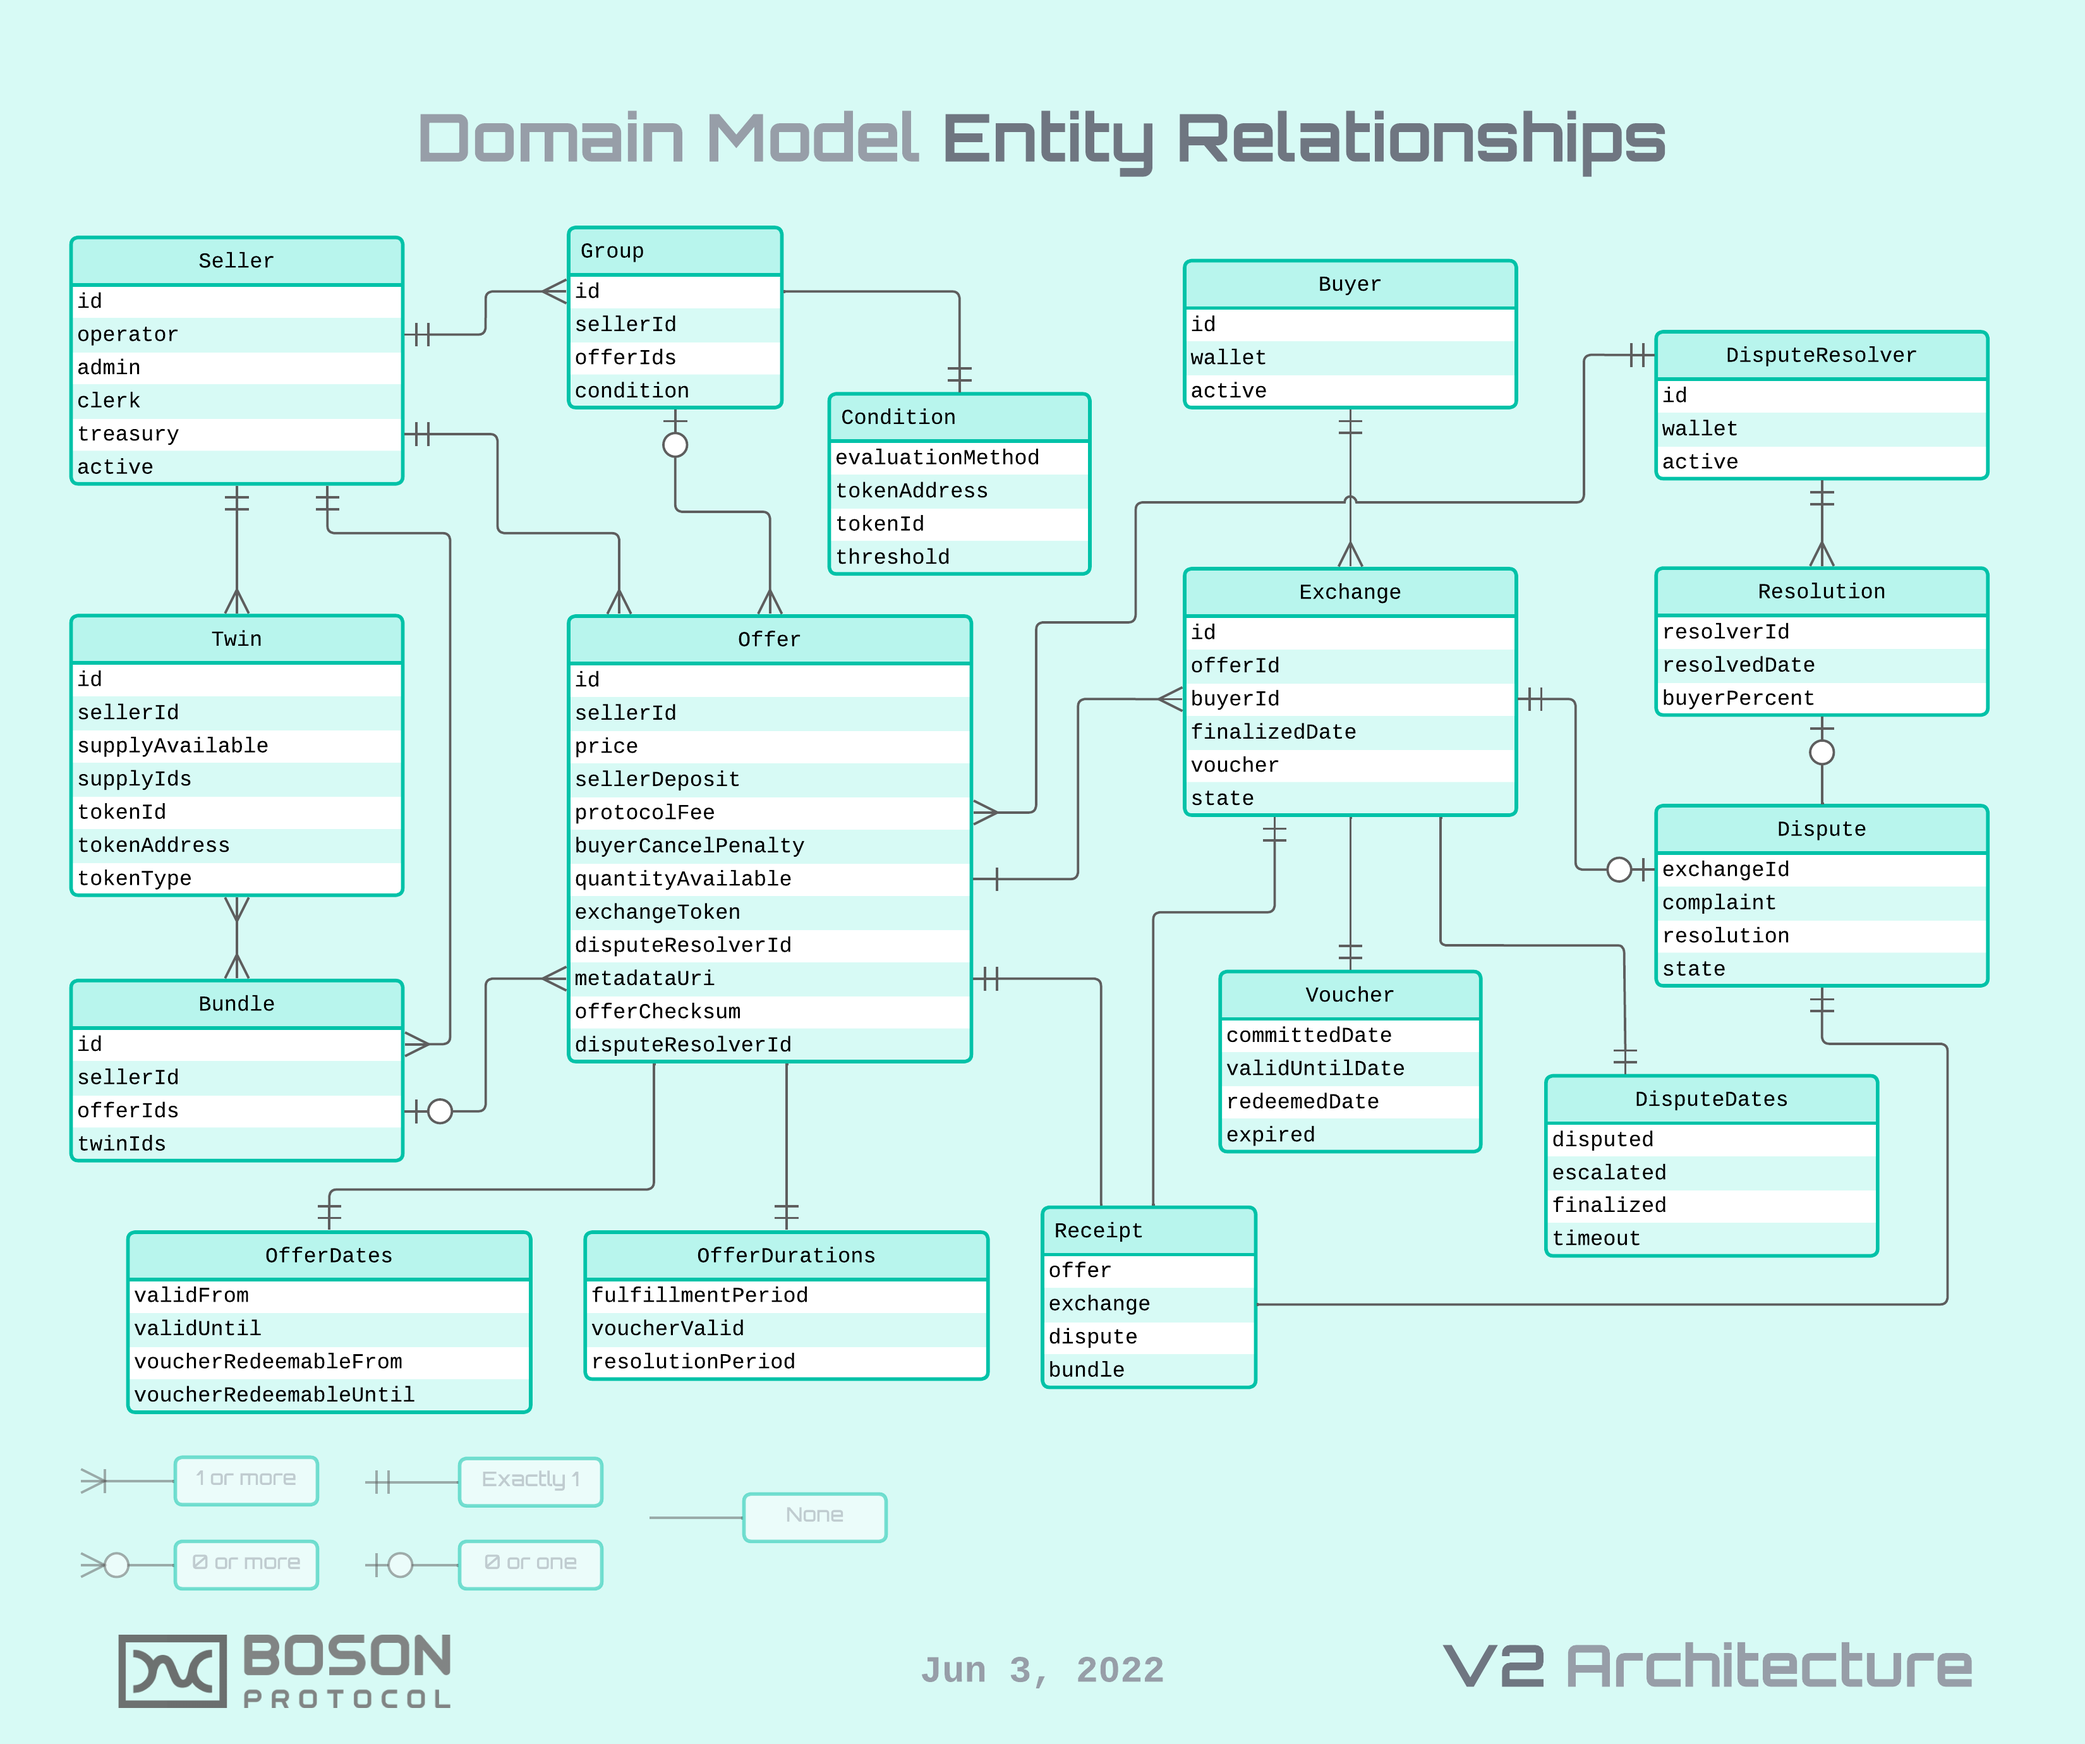
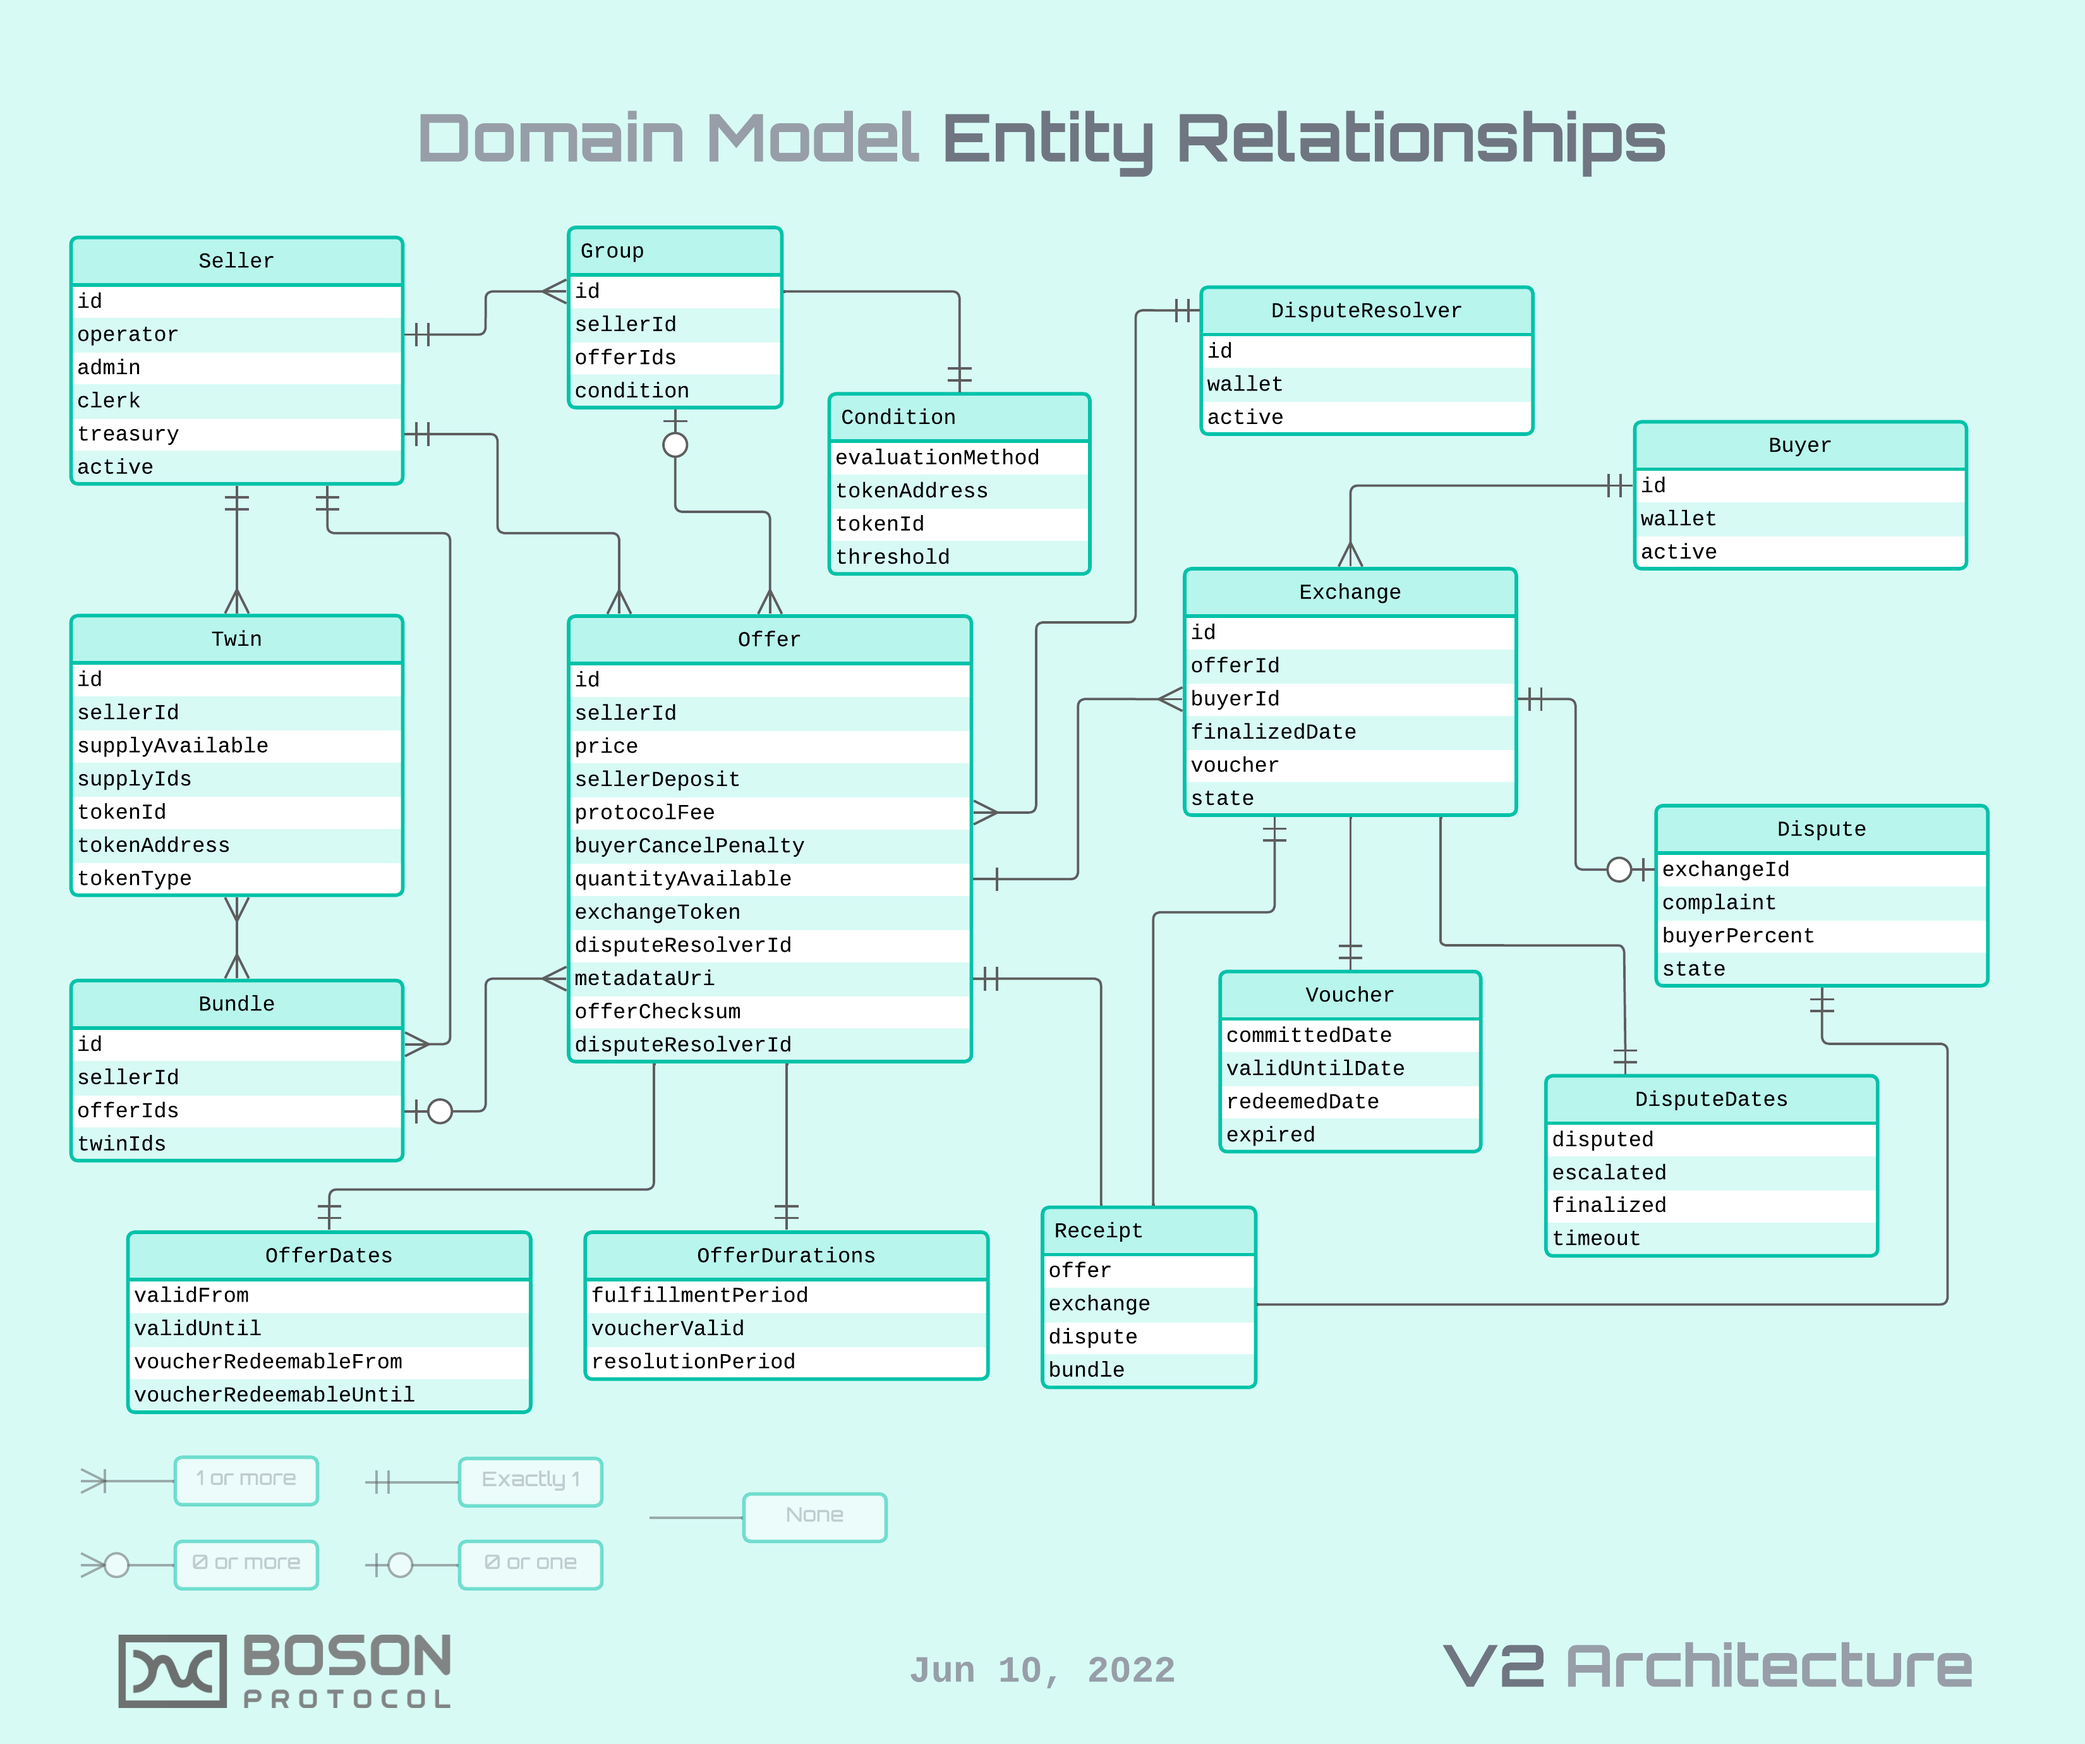
domain model diagram + small test fix

diff --git a/test/domain/DisputeTest.js b/test/domain/DisputeTest.js
@@ -24,7 +24,7 @@ describe("Dispute", function () {
       expect(dispute.exchangeIdIsValid()).is.true;
       expect(dispute.complaintIsValid()).is.true;
       expect(dispute.stateIsValid()).is.true;
-      expect(dispute.buyerPercentdIsValid()).is.true;
+      expect(dispute.buyerPercentIsValid()).is.true;
       expect(dispute.isValid()).is.true;
     });
   });

diff --git a/scripts/domain/Dispute.js b/scripts/domain/Dispute.js
@@ -47,7 +47,7 @@ class Dispute {
       exchangeId: exchangeId.toString(),
       complaint,
       state,
-      resolution: buyerPercent.toString(),
+      buyerPercent: buyerPercent.toString(),
     });
   }
 
